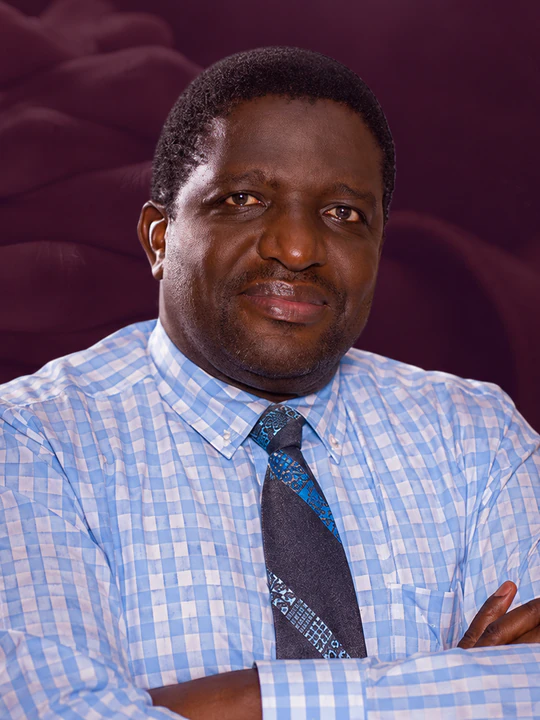
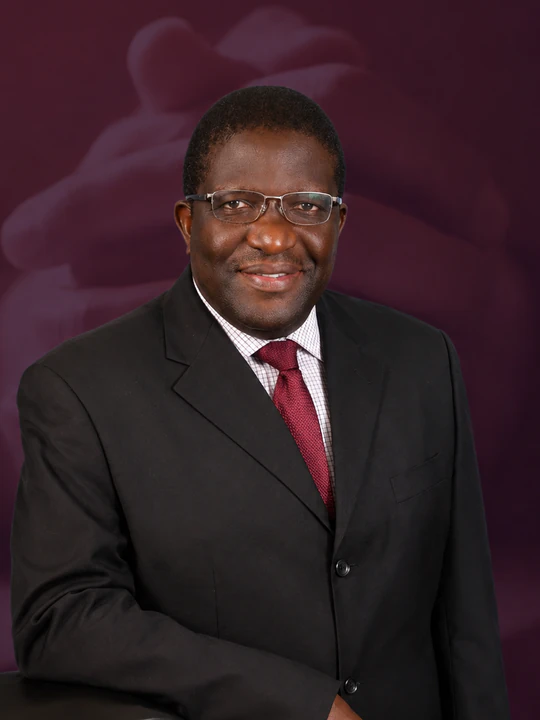
feat(portraits): Pr. Kenneth Ayuo, Pr. Elkanah Mose, and a new Eld. Omondi Oyoo
Every profile on the site now carries a photograph. Pr. Kenneth Ayuo and
Pr. Elkanah Mose were the last two rendering as initials monograms, and
both carry a weekday morning series apiece.

A THIRD KIND OF SOURCE, so a third converter. These are clean cut-outs on
the poster's plum ground with no caption burnt into them, where the seven
speaker files are social poster cards whose captions are the whole reason
speaker-photos.mjs exists -- its crop model is one number meaning "where
this poster's caption begins". portrait-photos.mjs uses host-photos.mjs's
top/bottom/cx window instead, and is its own file rather than three rows
added to that one because two of these three are SPEAKERS, and filing a
speaker under a script called `hosts` costs someone an hour later.

ELD. OMONDI OYOO'S REPLACES A FILE at the same path. The old crop came
from the only landscape source in the hosts batch and was the largest of
the five at 82.3 KB, because of the fine gingham check he was wearing --
a regular high-frequency pattern is the most expensive thing a DCT codec
can be handed. The new one is a plain studio portrait at 25.6 KB, so the
byte problem left with the shirt. The old note in host-photos.mjs is
marked superseded rather than deleted: the finding still holds, and
Pr. Mose is now the file it describes, 79.6 KB in a windowpane check.

Pr. Ayuo's crop is a zoom and is the second attempt. Keeping nearly the
whole square put his head at the same 0.12-0.40 of the window as the
[…]

diff --git a/src/data/event.ts b/src/data/event.ts
@@ -266,14 +266,24 @@ export const speakers: Speaker[] = [
    * the programme from the day they are added and appear in the
    * presenter filter straight away.
    *
-   * No photograph supplied for either; both fall back to the initials
-   * monogram. Owed by the committee alongside Eld. Ken Ochuka's.
+   * BOTH NOW HAVE A PHOTOGRAPH. They were the last two profiles rendering
+   * as initials monograms. The artwork is a clean cut-out on the poster's
+   * plum ground with no caption burnt in, so it is cropped by
+   * tools/assets/portrait-photos.mjs rather than by speaker-photos.mjs,
+   * whose first job is removing a caption these do not have.
    */
   {
     id: "elkanah-mose",
     name: "Elkanah Mose",
     title: "Pr.",
     role: "Stewardship",
+    // 79.6 KB where the other two in this batch are about 27, and it is
+    // the SUBJECT rather than a setting: he is photographed in a fine
+    // windowpane check, and a regular high-frequency pattern is the most
+    // expensive thing a DCT codec can be handed. The same thing the old
+    // Oyoo crop's gingham did — see host-photos.mjs.
+    image: "/speakers/elkanah-mose.webp",
+    imagePosition: "50% 0%",
     // v3 prints "Elkana" on Monday and Thursday and "Elkanah" on the
     // other four days he appears. "Elkanah" is used here because it is
     // both the majority spelling in the programme and the spelling in
@@ -301,6 +311,12 @@ export const speakers: Speaker[] = [
     // the grid. The four subjects are in the programme, where they
     // belong, and this names the thread instead.
     role: "Morning Sessions",
+    // The one crop in this batch that is a zoom rather than a shape. He
+    // is shot at three-quarter length where the other two are chest-up,
+    // so an equal head position still read smaller. See the note in
+    // portrait-photos.mjs.
+    image: "/speakers/kenneth-ayuo.webp",
+    imagePosition: "50% 0%",
     // Corrected: one missing space, "trust God.Come". Kept exactly as
     // written: "OBEY AND LIVE, Disobey and Perish. The Choice is
     // Yours.", which is his own framing of the theme and not this
@@ -450,6 +466,13 @@ export const hosts: Host[] = [
     name: "Omondi Oyoo",
     title: "Eld.",
     role: "Head Elder",
+    // The FILE behind this path was replaced, and the path was not. The
+    // first was cut by host-photos.mjs from the only landscape source in
+    // that batch, arms crossed, and it was the largest of the five hosts
+    // at 82.3 KB because of the fine gingham check he was wearing. The
+    // committee has since sent a plain studio portrait; it is cropped by
+    // tools/assets/portrait-photos.mjs and comes out at 25.6 KB, so the
+    // byte problem left with the shirt.
     image: "/speakers/omondi-oyoo.webp",
     imagePosition: "50% 0%",
   },

diff --git a/DATA-NOTES.md b/DATA-NOTES.md
@@ -574,12 +574,13 @@ misspelling, so none was touched:
     does appear in the hosts section as an Associate Pastor, with a
     photograph. Pr. Polycarp Nyangau is in the same position, with three
     credits.
-11. **Two speakers have no photograph**: Pr. Elkanah Mose and Pr.
-    Kenneth Ayuo. Both render as initials. Eld. Ken Ochuka's photograph
-    arrived with the hosts drop and his profile now carries it; he and
-    Allan Okoth still have no biography, and Allan Okoth's is the
-    emptiest page relative to how much of the programme he carries, the
-    Children's Corner on all seven days that have one.
+11. **Every profile now carries a photograph.** Pr. Elkanah Mose and Pr.
+    Kenneth Ayuo were the last two rendering as initials monograms and
+    both have arrived, along with a replacement for Eld. Omondi Oyoo —
+    see below. What is still owed is BIOGRAPHIES: Eld. Ken Ochuka and
+    Allan Okoth have none, and Allan Okoth's is the emptiest page
+    relative to how much of the programme he carries, the Children's
+    Corner on all seven days that have one.
 12. **The five welcome letters are published; five host BIOGRAPHIES are
     still owed.** All five cards in the hosts and elders section on
     `/speakers` — Dr. Gerald Mochoge, Pr. Elvis Onyango, Pr. Polycarp
@@ -608,6 +609,37 @@ misspelling, so none was touched:
 
 Open items are renumbered when one is resolved. Refer to them by title,
 not number.
+
+## The three later portraits
+
+Three files arrived after the speaker and host batches, and they are a
+third KIND of source rather than more of either — clean cut-outs on the
+poster's plum ground with **no caption burnt into them**. So they are cut
+by `tools/assets/portrait-photos.mjs` rather than by
+`speaker-photos.mjs`, whose whole crop model is one number meaning "where
+this poster's caption begins".
+
+| id | source | crop | output |
+| --- | --- | --- | --- |
+| `kenneth-ayuo` | 1254x1254, 1.6 MB | 725x966 at 352,100 | 540x720, 29.2 KB |
+| `elkanah-mose` | 1122x1402, 2.0 MB | 842x1122 at 140,140 | 540x720, 79.6 KB |
+| `omondi-oyoo` | 1122x1402, 1.6 MB | 842x1122 at 162,28 | 540x720, 25.6 KB |
+
+- **Eld. Omondi Oyoo's REPLACES a file.** The path did not change; what
+  is behind it did. The old crop came from the only landscape source in
+  the hosts batch and was the largest of the five at 82.3 KB because of
+  the fine gingham check he was wearing. The new one is a plain studio
+  portrait at 25.6 KB, so the byte problem left with the shirt.
+- **Pr. Elkanah Mose's is now the expensive one**, 79.6 KB against about
+  27 for the other two, and for exactly the same reason: he is
+  photographed in a fine windowpane check. Reported rather than hidden,
+  as the old note in `host-photos.mjs` reports its predecessor.
+- **Pr. Kenneth Ayuo's crop is a zoom**, and the second attempt. The
+  first kept nearly the whole square and put his head at the same
+  0.12-0.40 of the window as the other two, and he still read smaller —
+  he is shot at three-quarter length where they are chest-up, so an equal
+  head position left a third of his window as empty plum. The reasoning
+  is in the script.
 
 ## About the supplied speaker artwork
 
